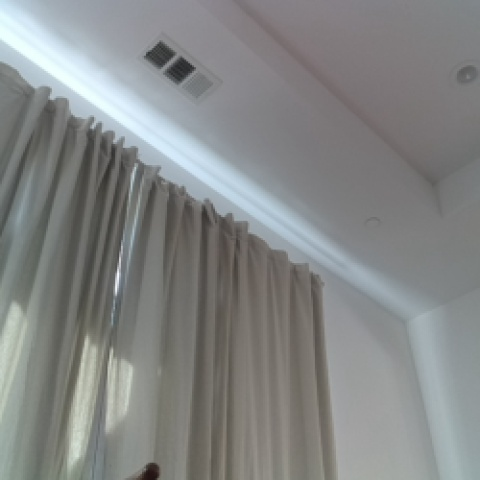
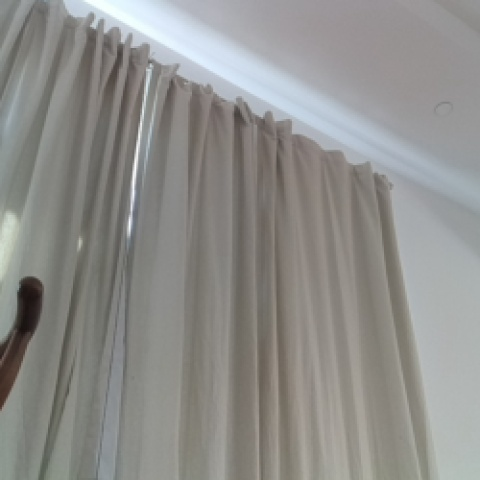
final TB4 tweeks

diff --git a/src/providers/llm_history_manager.py b/src/providers/llm_history_manager.py
@@ -31,7 +31,7 @@ class LLMHistoryManager:
         self,
         config: LLMConfig,
         client: Union[openai.AsyncClient, openai.OpenAI],
-        system_prompt: str = "You are a helpful assistant that summarizes a succession of events and interactions accurately and concisely. You are watching a humanoid robot named **** interact with people and the world. Your goal is to help **** remember what she felt, saw, and heard, and how she responded to those inputs.",
+        system_prompt: str = "You are a helpful assistant that summarizes a succession of events and interactions accurately and concisely. You are watching a robot named **** interact with people and the world. Your goal is to help **** remember what the robot felt, saw, and heard, and how the robot responded to those inputs.",
         summary_command: str = "\nConsidering the new information, write an updated summary of the situation for ****. Emphasize information that **** needs to know to respond to people and situations in the best possible and most compelling way.",
     ):
         self.client = client
@@ -205,10 +205,12 @@ class LLMHistoryManager:
                     self.history_manager.frame_index += 1
                     return response
 
+                self.agent_name = self._config.agent_name
+
                 cycle = self.history_manager.frame_index
                 logging.debug(f"LLM Tasking cycle debug tracker: {cycle}")
 
-                formatted_inputs = "**** sensed the following: "
+                formatted_inputs = f"{self.agent_name} sensed the following: "
                 for input_type, input_info in self.io_provider.inputs.items():
                     logging.debug(f"LLM: {input_type}")
                     logging.debug(f"LLM: {input_info}")
@@ -240,6 +242,8 @@ class LLMHistoryManager:
                             )
                         )
                     )
+
+                    action_message = action_message.replace("****", self.agent_name)
 
                     self.history_manager.history.append(
                         ChatMessage(role="user", content=action_message)

diff --git a/src/actions/move_turtle/connector/zenoh.py b/src/actions/move_turtle/connector/zenoh.py
@@ -28,7 +28,17 @@ class MoveZenohConnector(ActionConnector[MoveInput]):
     def __init__(self, config: ActionConfig):
         super().__init__(config)
         self.session = None
-        self.cmd_vel = "cmd_vel"
+
+        URID = getattr(self.config, "URID", None)
+
+        if URID is None:
+            # Log the domain id being used
+            logging.warning(f"Aborting Move, no URID provided: {URID}")
+            return
+        else:
+            logging.warning(f"Move system is using URID:{URID}")
+
+        self.cmd_vel = f"{URID}/c3/cmd_vel"
         try:
             self.session = zenoh.open(zenoh.Config())
             logging.info("Zenoh client opened")

diff --git a/src/providers/turtlebot4_camera_vlm_provider.py b/src/providers/turtlebot4_camera_vlm_provider.py
@@ -32,7 +32,7 @@ def listener(sample):
         # update the global image
         image = rgb
         # for easy debug
-        # cv2.imwrite("turtlebot.jpg", rgb)
+        cv2.imwrite("turtlebot.jpg", rgb)
 
 
 class TurtleBot4CameraVideoStream(VideoStream):
